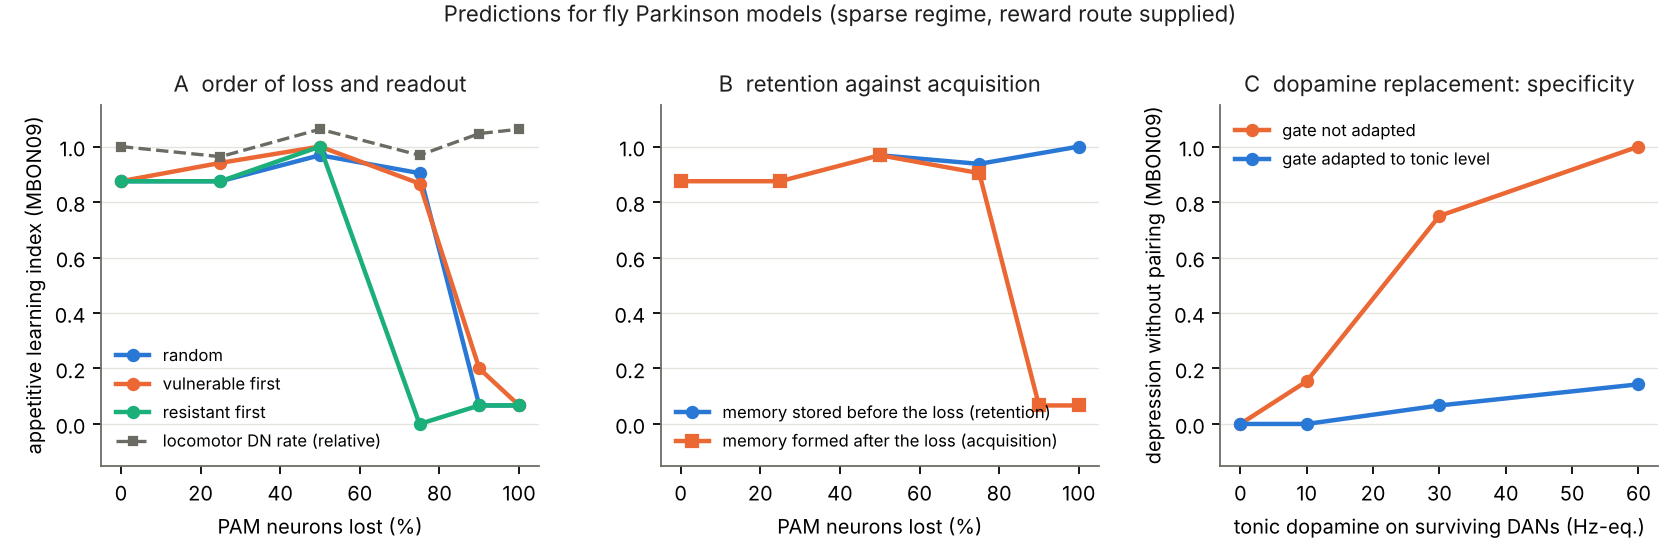
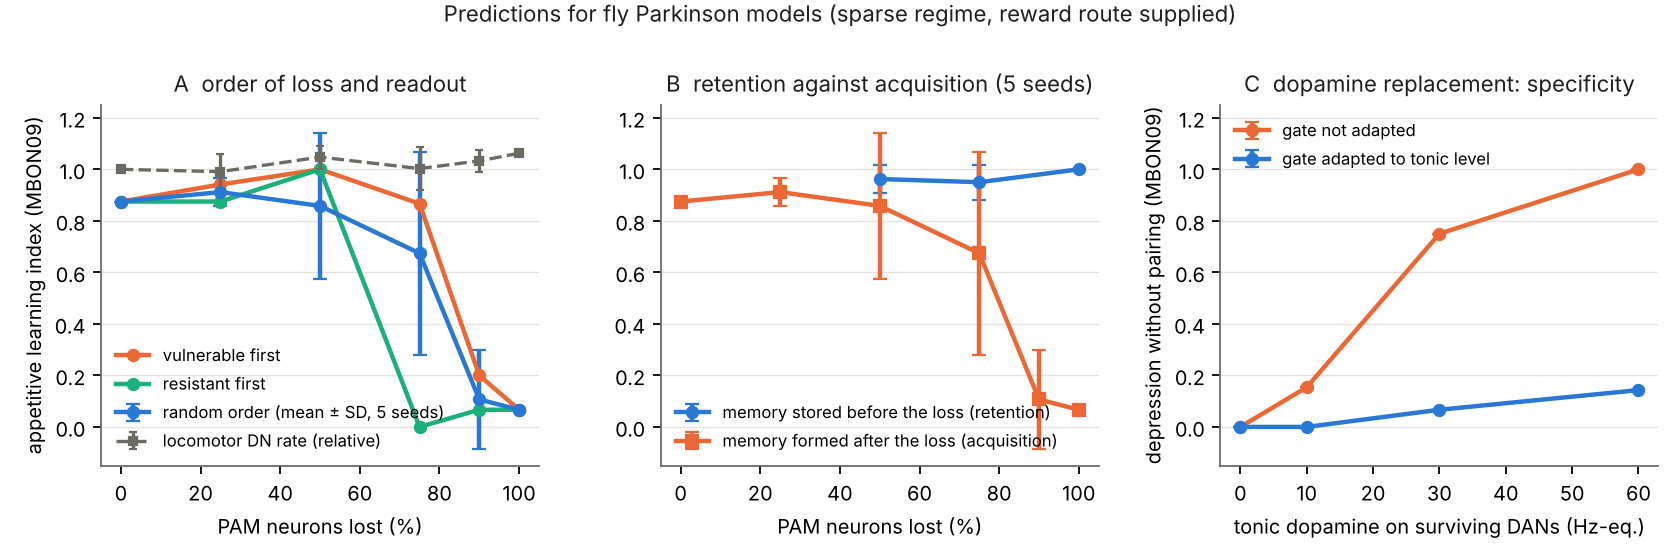
Parkinson experiments with 5 seeds: reserve at 75% is seed-dependent; retention, compensation and L-DOPA signature stable; figure 8 with error bars

diff --git a/docs/PLAN.md b/docs/PLAN.md
@@ -1353,3 +1353,29 @@ modelin ilk PPL1'e bağımlı ceza öğrenmesi, doğru kompartmanda, ama zayıf
 gerekli ama yeterli değil; MBON11/14'teki eksiklik bu kompartmanların
 KC girdisinin doymuş olmasına (125 ve 61 Hz) bağlı olabilir (bölüm 39'daki
 KC girdisi–rezerv ilişkisiyle tutarlı). Bu noktada bırakıldı.
+
+## 42. Kapanış maddesi 3: Parkinson deneyleri 5 tohumla (Mac, 2026-10-30)
+
+`artifacts/pd_patterns_s5.csv`, `pd_retention_s5.csv`, `pd_compensation_s5.csv`,
+`pd_ldopa_s2.csv` (M4'te toplam ~50 dk). Ortalama ± SD, MBON09:
+
+| PAM kaybı | %25 | %50 | %75 | %90 | %100 |
+|---|---|---|---|---|---|
+| öğrenme, rastgele sıra (5 tohum) | 0.91 ± 0.06 | 0.86 ± 0.28 | **0.67 ± 0.39** | 0.11 ± 0.19 | 0.07 ± 0.00 |
+| korunum (5 tohum) | — | 0.96 ± 0.06 | 0.95 ± 0.07 | — | 1.00 ± 0.00 |
+| kompanzasyon α=1 (5 tohum) | — | 0.86 ± 0.32 | 0.66 ± 0.49 | 0.12 ± 0.18 | — |
+
+Hassas-önce: %75 0.87, %90 0.20; dirençli-önce: %75 0.00. Pasif okumalar
+(70 lezyonlu iş): hareket DN sol 20.6 ± 1.3 Hz (sağlam 20.0; en büyük
+sapma 3.8), sağ 9.8 ± 1.0 (8.8; 3.3), MBON koku ortalaması 6.5 ± 0.2
+(6.5; 0.4). L-DOPA (2 tohum): adapte olmamış kapıda eşleşmesiz bastırma
+0.15 / 0.75 / 1.00 (10/30/60 Hz), SD ≤ 0.01; adapte kapıda ≤ 0.21.
+
+**Düzeltilen ifade.** İki tohumla "%75'e kadar tam" görünen rezerv, beş
+tohumla iki-modlu çıktı: %75 kayıpta tohumların bir kısmı tam öğreniyor,
+bir kısmı hiç (0.67 ± 0.39), çünkü sonuç MBON09'un kendi kompartmanındaki
+52 PAM'dan kaçının rastgele kaldığına bağlı. Doğru ifade: rezerv %50'ye
+kadar güvenilir (0.86), %75'te kaybın hangi hücrelere düştüğüne bağlı,
+%90'da bitmiş. Bu, kayıp sırası bulgusuyla (bölüm 34) aynı mekanizma ve
+onu güçlendiriyor. Korunum, kompanzasyonun etkisizliği ve L-DOPA imzası
+tohumlar arasında kararlı. Önbaskı ve şekil 8 buna göre güncellendi.
